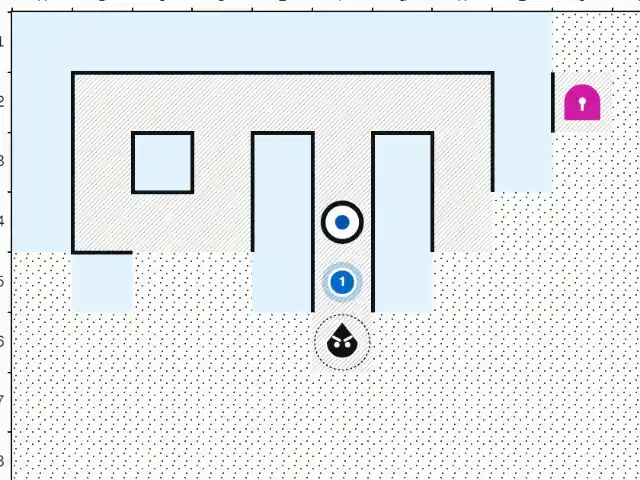
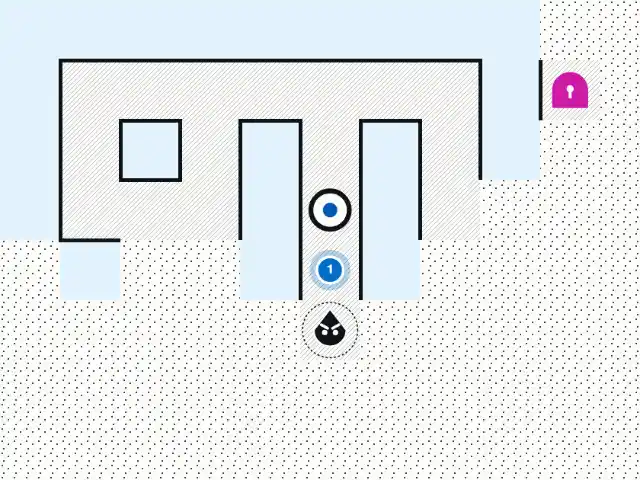
fix(ui): redraw the course line and trim the hero
Draw the landing trail as straight legs with a 2px Signal stroke.
Place it between the chart and the legend so the two never overlap.
Crop both hero images inside the neatline so no row label is cut.
Remove the hero min-height that left empty space below the content.

Changed region(s): [[0.0, 0.0, 1.0, 1.0]]

diff --git a/src/daylight.css b/src/daylight.css
@@ -1731,12 +1731,11 @@ body[data-run-mode="first-light"] .play-workbench {
 }
 
 .landing-hero {
-  min-height: min(42rem, calc(100svh - 7rem));
   display: grid;
   grid-template-columns: minmax(0, 1fr);
   align-items: center;
   gap: clamp(var(--space-8), 7vw, var(--space-16));
-  padding-block: var(--space-8) var(--space-12);
+  padding-block: var(--space-8) var(--space-4);
 }
 
 .landing-hero__copy {
@@ -1935,8 +1934,9 @@ body[data-run-mode="first-light"] .play-workbench {
 }
 
 .landing-hero__figure {
-  position: relative;
-  margin: 0 0 var(--space-8);
+  display: flex;
+  flex-direction: column;
+  margin: 0;
 }
 
 /* Fixed 4:3 frame: a failed image still reserves its space, so nothing shifts. */
@@ -1956,6 +1956,7 @@ body[data-run-mode="first-light"] .play-workbench {
 }
 
 .landing-hero__legend {
+  order: 3;
   display: flex;
   flex-wrap: wrap;
   gap: var(--space-2) var(--space-5);
@@ -1968,17 +1969,17 @@ body[data-run-mode="first-light"] .play-workbench {
   list-style: none;
 }
 
+/* The course line sits between the chart and the legend, in document order via flex order. */
 .landing-hero__trail {
-  position: absolute;
-  left: 0;
-  bottom: calc(-1 * var(--space-6));
+  order: 2;
   width: 100%;
   height: 3rem;
+  margin-block: var(--space-3);
   overflow: visible;
   fill: none;
   stroke: var(--color-signal);
-  stroke-width: 3;
-  stroke-linecap: round;
+  stroke-width: 2;
+  stroke-linejoin: miter;
   pointer-events: none;
 }
 
@@ -1994,9 +1995,12 @@ body[data-run-mode="first-light"] .play-workbench {
 }
 
 @media (max-width: 58rem) {
+  .landing-hero__trail {
+    stroke-width: 3.7;
+  }
+
   .landing-hero {
     grid-template-columns: 1fr;
-    min-height: 0;
   }
 
   .landing-path ol,

diff --git a/src/landing/landing-controller.js b/src/landing/landing-controller.js
@@ -43,7 +43,7 @@ export function renderLanding(root) {
             <li>Gate</li>
             <li>You</li>
           </ul>
-          <svg class="landing-hero__trail" aria-hidden="true" focusable="false" viewBox="0 0 640 48"><path pathLength="1" d="M4 40C120 4 200 44 320 24S520 4 636 30"/></svg>
+          <svg class="landing-hero__trail" aria-hidden="true" focusable="false" viewBox="0 0 640 48"><path pathLength="1" d="M4 40L180 14L380 34L636 10"/></svg>
         </figure>
       </section>
       <section class="landing-path" aria-labelledby="landing-path-title">

diff --git a/index.html b/index.html
@@ -76,7 +76,7 @@
             <li>Gate</li>
             <li>You</li>
           </ul>
-            <svg class="landing-hero__trail" aria-hidden="true" focusable="false" viewBox="0 0 640 48"><path pathLength="1" d="M4 40C120 4 200 44 320 24S520 4 636 30"/></svg>
+            <svg class="landing-hero__trail" aria-hidden="true" focusable="false" viewBox="0 0 640 48"><path pathLength="1" d="M4 40L180 14L380 34L636 10"/></svg>
           </figure>
         </section>
         <section class="landing-path" aria-labelledby="landing-path-title">
